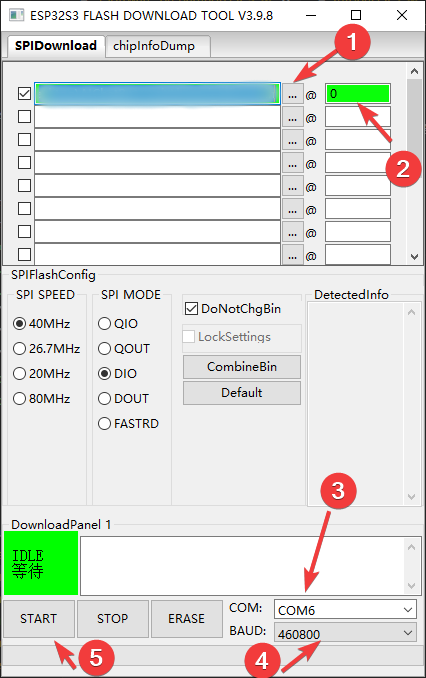
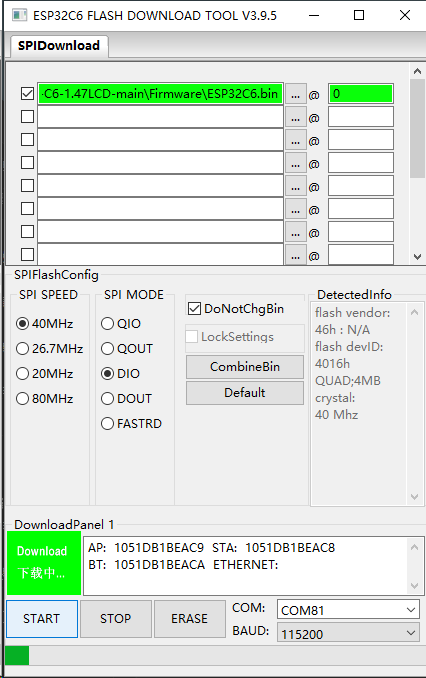
update

diff --git a/docs/source/Tutorial/1.quick_start.rst b/docs/source/Tutorial/1.quick_start.rst
@@ -11,17 +11,13 @@
 - 内存卡 x1
 - 读卡器 x1
 
-你收到产品之后可以使用附带的typec数据线通电插入esp32c6模块的typec口,正常情况下产品会自动亮起并显示Onboard Info界面
+你收到产品之后可以使用附带的typec数据线通电插入esp32c6模块的typec口,正常情况下产品会自动亮起并显示下面所示的Onboard Info界面
 
-.. .. image:: ./img/LB006-1.jpg 暂时空
-
-如果你会看到Onboard Info这个界面,说明烧录成功硬件没有问题
-
-.. image:: img/demo1-2.png
+.. image:: img/demo1-4.png
 
 如果没有自动亮起,你需要先根据这一章下载代码固件和烧录工具
 
-:ref:`download_code1 <download_code>` 
+:ref:`Download Code <download_code>` 
 
 然后根据下面的步骤烧录代码到设备上
 
@@ -37,18 +33,17 @@ Firmware Upload(windows)
 
     B.In the address input box after the bin file selection box, enter 0 or 0x0 (indicating that the firmware will be downloaded to the starting position of the development board’s memory)
 
-    C.Select the COM port corresponding to ESP32-S3 from the port selection dropdown menu (使用windows的设备管理器查看)
+    C.Select the COM port corresponding to ESP32-C6 from the port selection dropdown menu (Use windows device manager to view)
 
-    D.Set the baud rate (we use 465800 here)
+    D.Set the baud rate (we use 115200 here)
 
-    E.Click the “START” button to begin downloading the firmware to the ESP32-S3 development board
+    E.Click the “START” button to begin downloading the firmware to the ESP32-C6 development board
 
 .. image:: img/flashtool2.png
 
 3.固件烧录完成之后你会看到Onboard Info这个界面,说明烧录成功了
 
 .. image:: img/demo1-4.png
-
 
 你可以插入将SD Card File文件夹中的图片复制到内存卡中,然后插入内存卡,之后ESP32-C6-LCD-1.47开发板会自动读取内存卡中的图片并在屏幕上轮播
 
